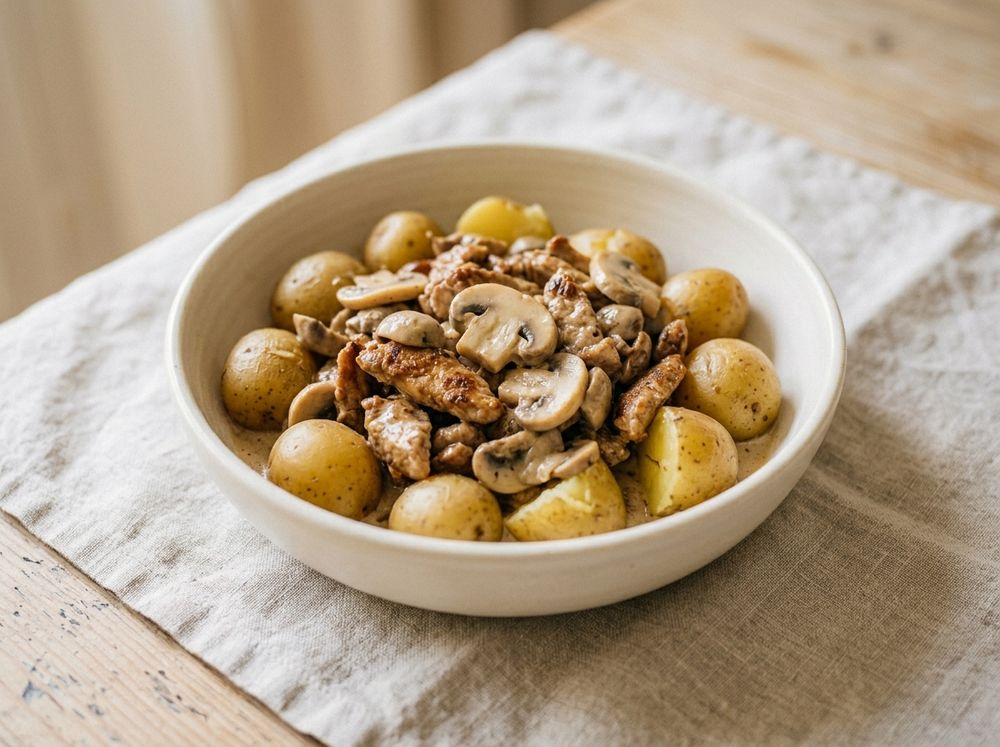
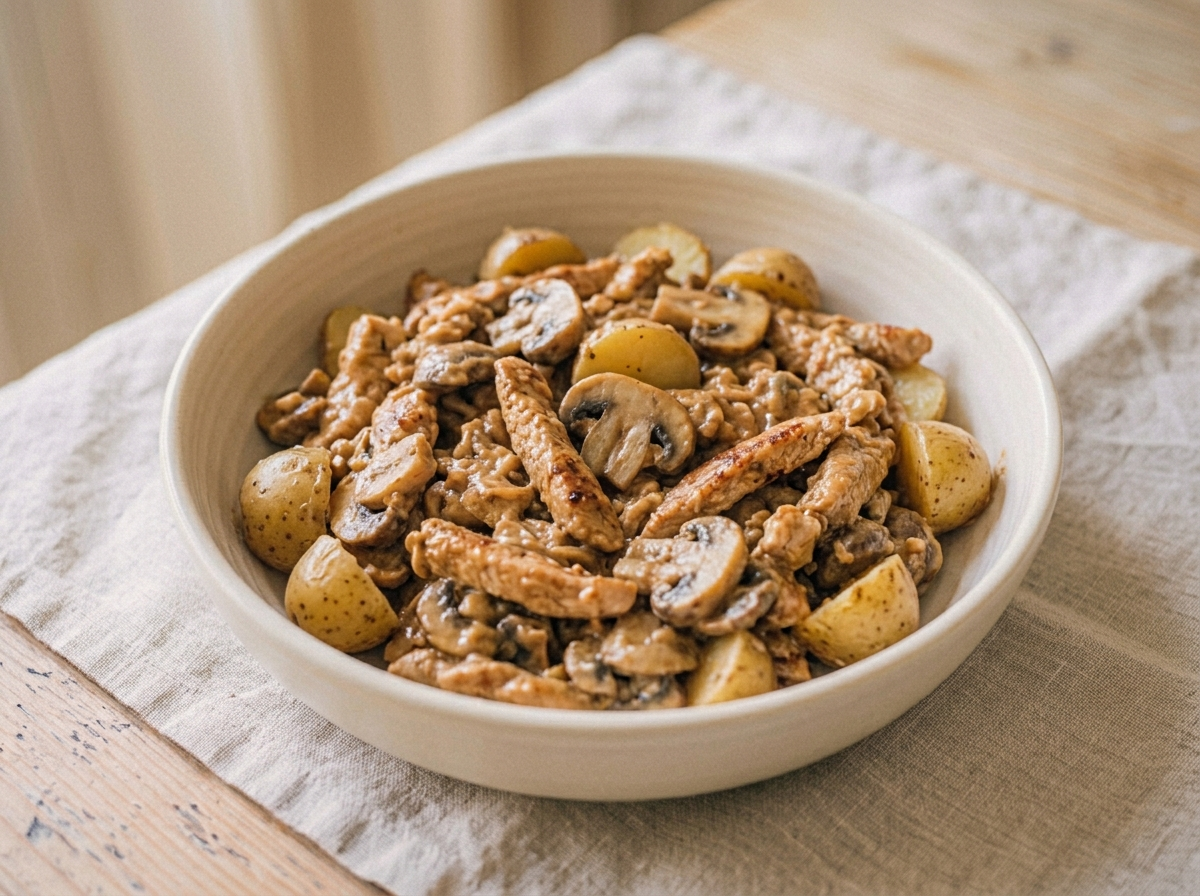
Neues Bild Putengeschnetzeltes

diff --git a/data.js b/data.js
@@ -156,7 +156,7 @@ window.PREPD = {
     },
     {
       id: 'putengeschnetzeltes',
-      bild: 'bilder/Pilz-Kartoffel.jpg',
+      bild: 'bilder/putengeschnetzeltes.jpg',
       name: 'Putengeschnetzeltes mit Champignons und Kartoffeln',
       portionen: 2, zeit: 30, mealPrep: true, haltbar: 3,
       zutaten: [
